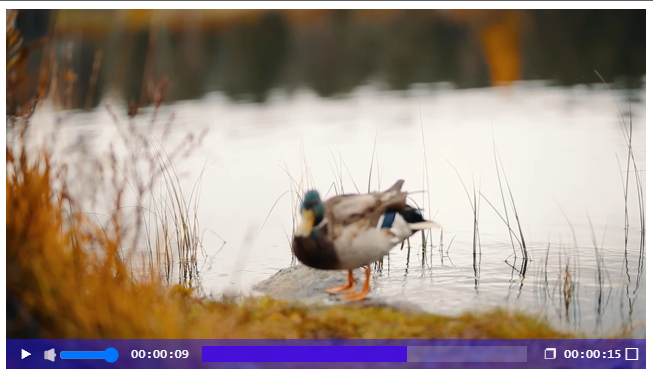
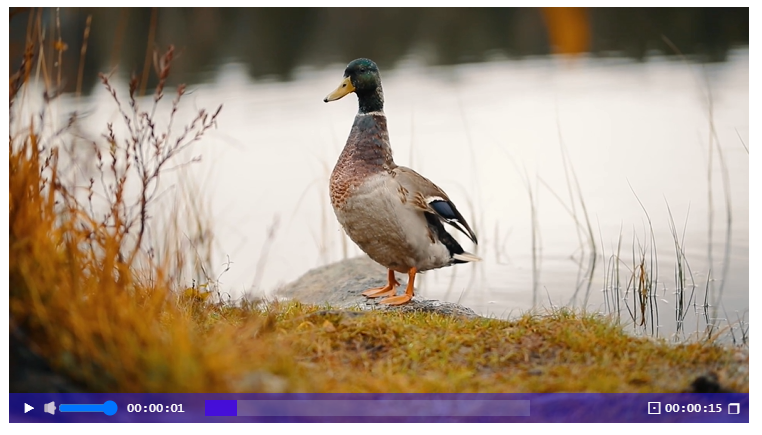
2.1.1 beta minor updates

diff --git a/dist/Player.js b/dist/Player.js
@@ -217,11 +217,11 @@ function miraxplayer (video, isPlaying, setIsPlaying) {
   }
   
   // Define the content string
-  const content_fullscreen = "\\02750"; //  : □
+  const content_fullscreen = "\\02752"; 
   const content_play = "\\25B6";
   const content_pause =  "\\2590" + "\\A0" + "\\258C";
   const content_speaker = "\\1F508";
-  const content_pip = "\\25a1";
+  const content_pip = "\\022A1";
   
   
   const miraxStyle = document.createElement('style');
@@ -229,7 +229,7 @@ function miraxplayer (video, isPlaying, setIsPlaying) {
   const styles = `
   
   .mirax-player {
-    max-width: 640px;
+    max-width: 740px;
     width: 100%; /* This ensures the video fills its container while respecting max-width */
     height: auto; /* This maintains the video's aspect ratio */
     min-height:100px;
@@ -239,11 +239,10 @@ function miraxplayer (video, isPlaying, setIsPlaying) {
   }
   
   .mirax-theme {
-    margin: 0 auto;
     position: relative;
     width: 100%;
     height: 20px;
-    max-width:640px;
+    max-width:740px;
     margin-top:-34px;
     bottom: 0;
     left: 0;
@@ -370,26 +369,27 @@ function miraxplayer (video, isPlaying, setIsPlaying) {
   
   
   .pip-button {
-    min-width:40px;
+    min-width:20px;
     width: 100%;
-    max-width: 70px;
+    max-width: 30px;
     position: absolute;
     right:0;
+    margin-top: 2px;
+    margin-right:80px;
     height: 20px;
-    background: none;
-    color: #fff;
-    border-style: none;
-    border-radius: 0;
-    cursor: pointer;
-    transition: color 0.3s ease;
+      background:  none;
+      color: #fff;
+      border-style: none;
+      border-radius: 0;
+      cursor: pointer;
+      transition: color 0.3s ease;
+      font-size:15px;
   }
   
     
   .pip-button::before {
       content: "${content_pip}";
-      font-size: 16px;
-      float: right;
-      margin-right:89px;
+
     }
     
     .pip-button:hover{
@@ -412,7 +412,6 @@ function miraxplayer (video, isPlaying, setIsPlaying) {
       cursor: pointer;
       transition: color 0.3s ease;
       font-size:15px;
-  
   }
     
   .fullscreen:hover {
@@ -502,6 +501,7 @@ function miraxplayer (video, isPlaying, setIsPlaying) {
   
   miraxStyleMediaQuery3.appendChild(document.createTextNode(mediaQuery3));
   /* # Mirax Player core license
+  
   Mirax Player is released under the MIT license:
   
   MIT License
@@ -528,5 +528,4 @@ function miraxplayer (video, isPlaying, setIsPlaying) {
   
   
   
-
   export default miraxplayer;

diff --git a/README.md b/README.md
@@ -1,5 +1,5 @@
 <p align="center">
-      <img src="./img/logo.png" alt="Sample Image" width="70" height="70"/>
+      <img src="https://raw.githubusercontent.com/demjhonsilver/mirax-player/main/img/logo.png" alt="Logo" width="70" height="70"/>
 </p>
 
 <div align="center">
@@ -9,17 +9,37 @@
 
 </div>
 
-<p align="center">
-  <img src="./test/demo.gif"/>
-</p>
+
 
 <p align="center">
   <img src="./img/theme1.png"/>
 </p>
 
+<p align="center">
+  <img src="./img/theme2.png"/>
+</p>
+
+
+<p align="center">
+  <img src="./img/theme3.png"/>
+</p>
+
+
+<p align="center">
+  <img src="./img/theme0.png"/>
+</p>
+
+
 <p align="left">
   <img src="./img/css.png"/>
 </p>
+
+------
+
+<p align="center">
+  <img src="./test/demo.gif"/>
+</p>
+
 
 ## Table of Contents
 
@@ -184,7 +204,7 @@ export default {
     }
 
     return {
-      player
+      video
     };
   }
 };
@@ -319,6 +339,71 @@ To customize the alignment of video:
 
 ```
 
+
+----------------
+Left Alignment:
+--------------
+```css
+.whatever {
+  margin: 0 auto;
+  position: relative;
+  width: 100%;
+  text-align: left;
+}
+.mirax-theme {
+  float: left;
+  background-color: rgba(36, 22, 223, 0.5)!important;
+}
+progress::-webkit-progress-value {
+  background-color: rgb(65, 7, 224, 0.9)!important;
+} 
+
+```
+
+----------
+Center Alignment:
+--------------
+```css
+
+.whatever {
+  margin: 0 auto;
+  position: relative;
+  width: 100%;
+  text-align: center;
+}
+.mirax-theme {
+  margin: 0 auto;
+  background-color: rgba(36, 22, 223, 0.5)!important;
+}
+progress::-webkit-progress-value {
+  background-color: rgb(65, 7, 224, 0.9)!important;
+}
+
+```
+
+--------
+
+Right Alignment:
+---------
+```css
+
+.whatever {
+  margin: 0 auto;
+  position: relative;
+  width: 100%;
+  text-align: right;
+}
+.mirax-theme {
+  float: right;
+  background-color: rgba(36, 22, 223, 0.5)!important;
+}
+progress::-webkit-progress-value {
+  background-color: rgb(65, 7, 224, 0.9)!important;
+} 
+
+```
+
+
 ----------
 ## Style
 
@@ -354,13 +439,78 @@ progress::-webkit-progress-value {
 
 ```
 ---------------------------
-color css syntax supported:
+Color css syntax supported:
 ------
+Transparency color mode:
 - rgba() -> means have opacity  add: !important;
+
+--------
+Solid color mode:
 - rgb() -> means no opacity  add: !important;
 - hexa  -> starts with # symbol ex. #00ff00  add: !important;
-- colorname -> specific name:  ex. red, blue, purple add: !important;
+- colorname -> specific name:  ex. red, blue, purple add: !important; 
+
 ----------------
+ if you want pure transparent, mirax-theme only:
+---------
+ change into:
+ ---------
+ ```css
+
+.mirax-theme {
+  margin: 0 auto;
+  background: none !important;
+}
+
+```
+
+---------------
+Sample themes:
+
+-------------
+```css
+
+.mirax-theme {
+  margin: 0 auto;
+  background-color: purple!important;
+}
+progress::-webkit-progress-value {
+  background-color: lime!important;
+} 
+
+```
+-------------------
+
+```css
+
+.mirax-theme {
+  margin: 0 auto;
+  background-color: rgba(250, 149, 35, 0.9)!important;
+}
+progress::-webkit-progress-value {
+  background-color: rgb(17, 117, 59)!important;
+} 
+
+```
+-----------
+
+```css
+
+.mirax-theme {
+  margin: 0 auto;
+  background: none !important;
+}
+progress::-webkit-progress-value {
+  background-color: rgba(250, 50, 67, 0.5)!important;
+} 
+
+```
+
+
+
+
+
+----------------------
 
 ## Features
 

diff --git a/LICENSE.md b/LICENSE.md
@@ -1,4 +1,5 @@
 # Mirax Player core license
+
 Mirax Player is released under the MIT license:
 
 MIT License
